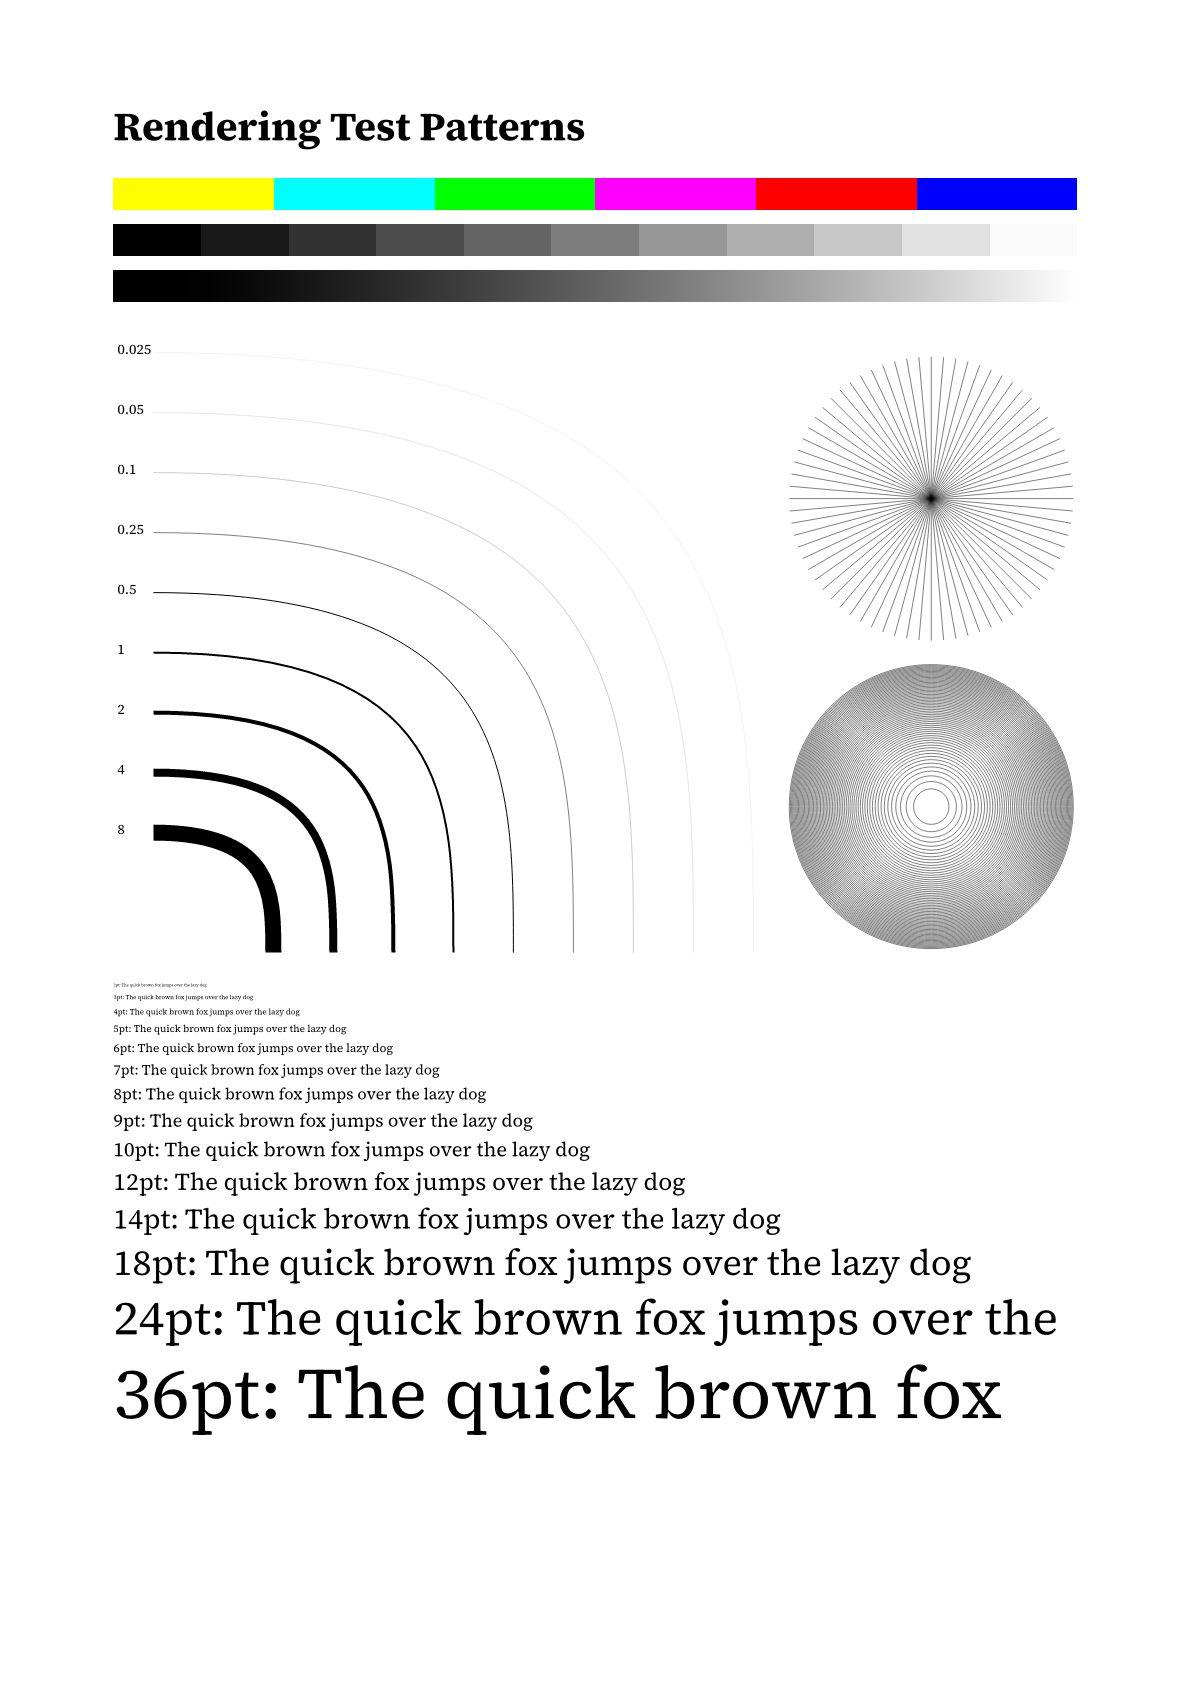
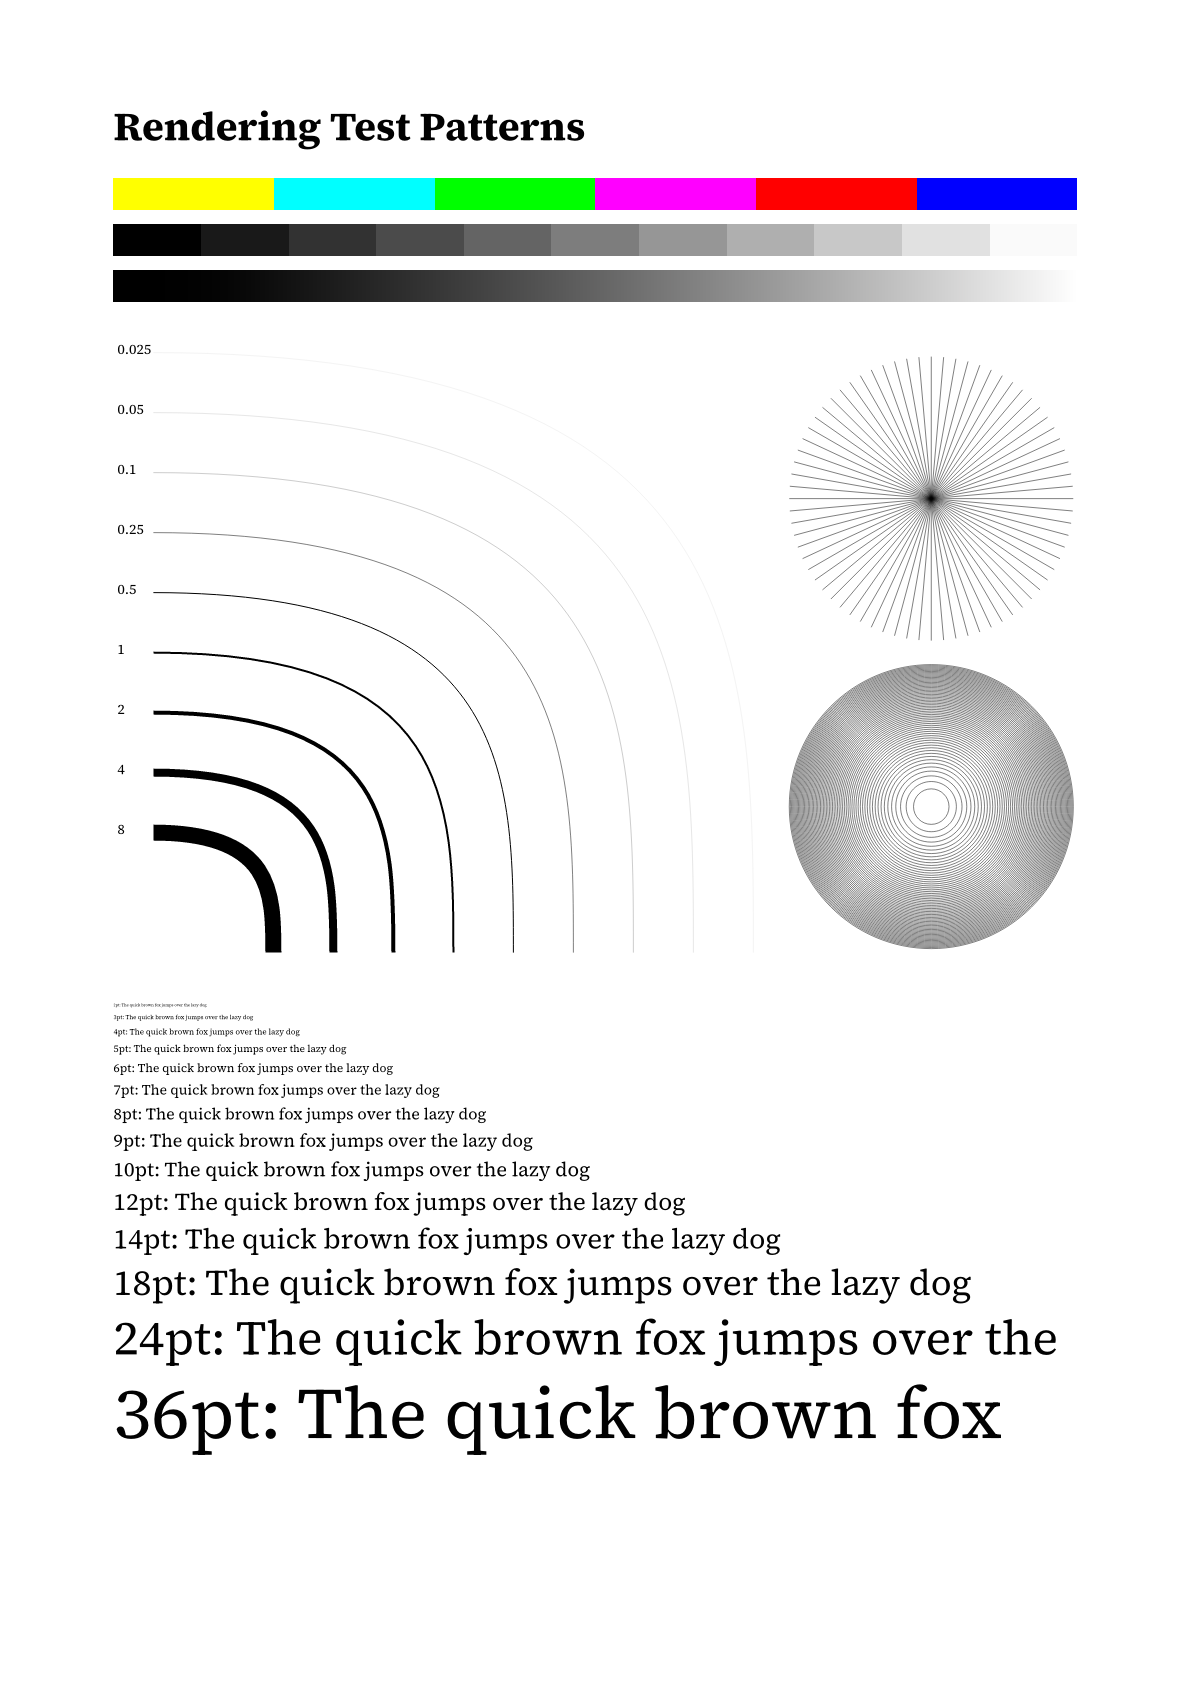
Improve output-formats Typst code quality
- Group constants at top of page 2 (bar-height, stroke-thin, n-star, n-plate)
- Add reusable color-bar function for color/grayscale bars
- Move n parameter to function signature for siemens-star and zone-plate
- Use enumerate in typography loop to skip spacing on first item
- Simplify README link to "See below"

Changed region(s): [[0.0932, 0.5867, 0.9009, 0.8646]]

diff --git a/README.md b/README.md
@@ -99,7 +99,7 @@ For a complete walkthrough, see the [Quick Start Guide (PDF)](https://github.com
 | with-inputs | Pass dynamic data from Rust to Typst | `cargo run -p example-with-inputs` | [PDF](https://github.com/elgar328/typst-bake/blob/main/examples/with-inputs/output.pdf) |
 | with-files | Embed images and various data files | `cargo run -p example-with-files` | [PDF](https://github.com/elgar328/typst-bake/blob/main/examples/with-files/output.pdf) |
 | with-package | Automatic package bundling | `cargo run -p example-with-package` | [PDF](https://github.com/elgar328/typst-bake/blob/main/examples/with-package/output.pdf) |
-| output-formats | Multi-format output with rendering test patterns | `cargo run -p example-output-formats` | [PDF/SVG/PNG](#output-formats-example-outputs) |
+| output-formats | Multi-format output with rendering test patterns | `cargo run -p example-output-formats` | See below |
 
 ### output-formats Example Outputs
 
